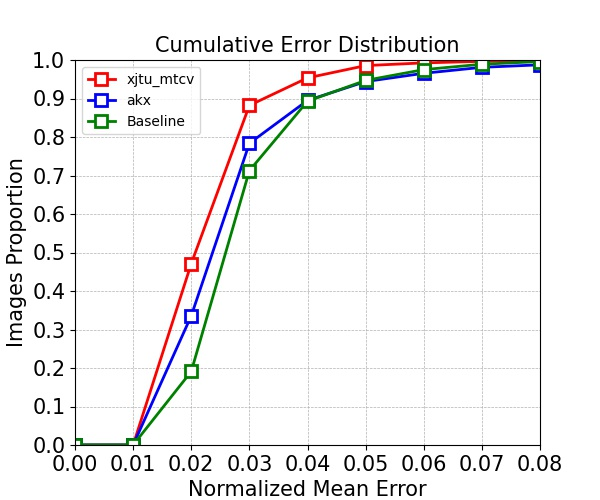
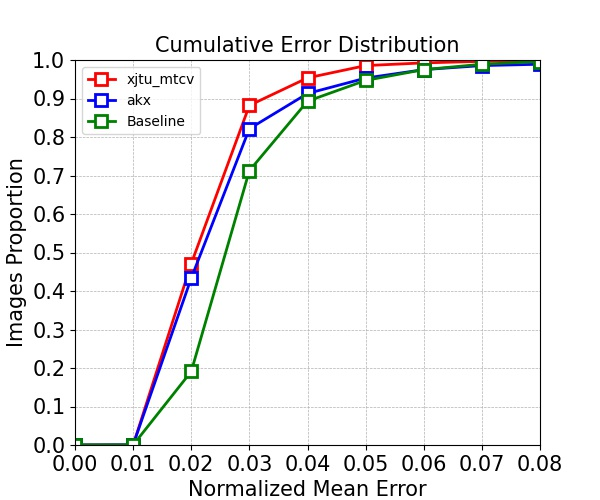
update leaderboard

Changed region(s): [[0.21, 0.12, 0.72, 0.87], [0.72, 0.12, 0.9, 0.15]]

diff --git a/leaderboard/index.html b/leaderboard/index.html
@@ -90,9 +90,9 @@
 <td align="center"> 2</td>
 <td align="center">akx</td>
 <td align="center">Imperial-Vision Technology</td>
-<td align="center">67.30</td>
-<td align="center">1.25</td>
-<td align="center">2.65</td>
+<td align="center">69.52</td>
+<td align="center">1.10</td>
+<td align="center">2.48</td>
 </tr>
 <tr>
 <td align="center"></td>
